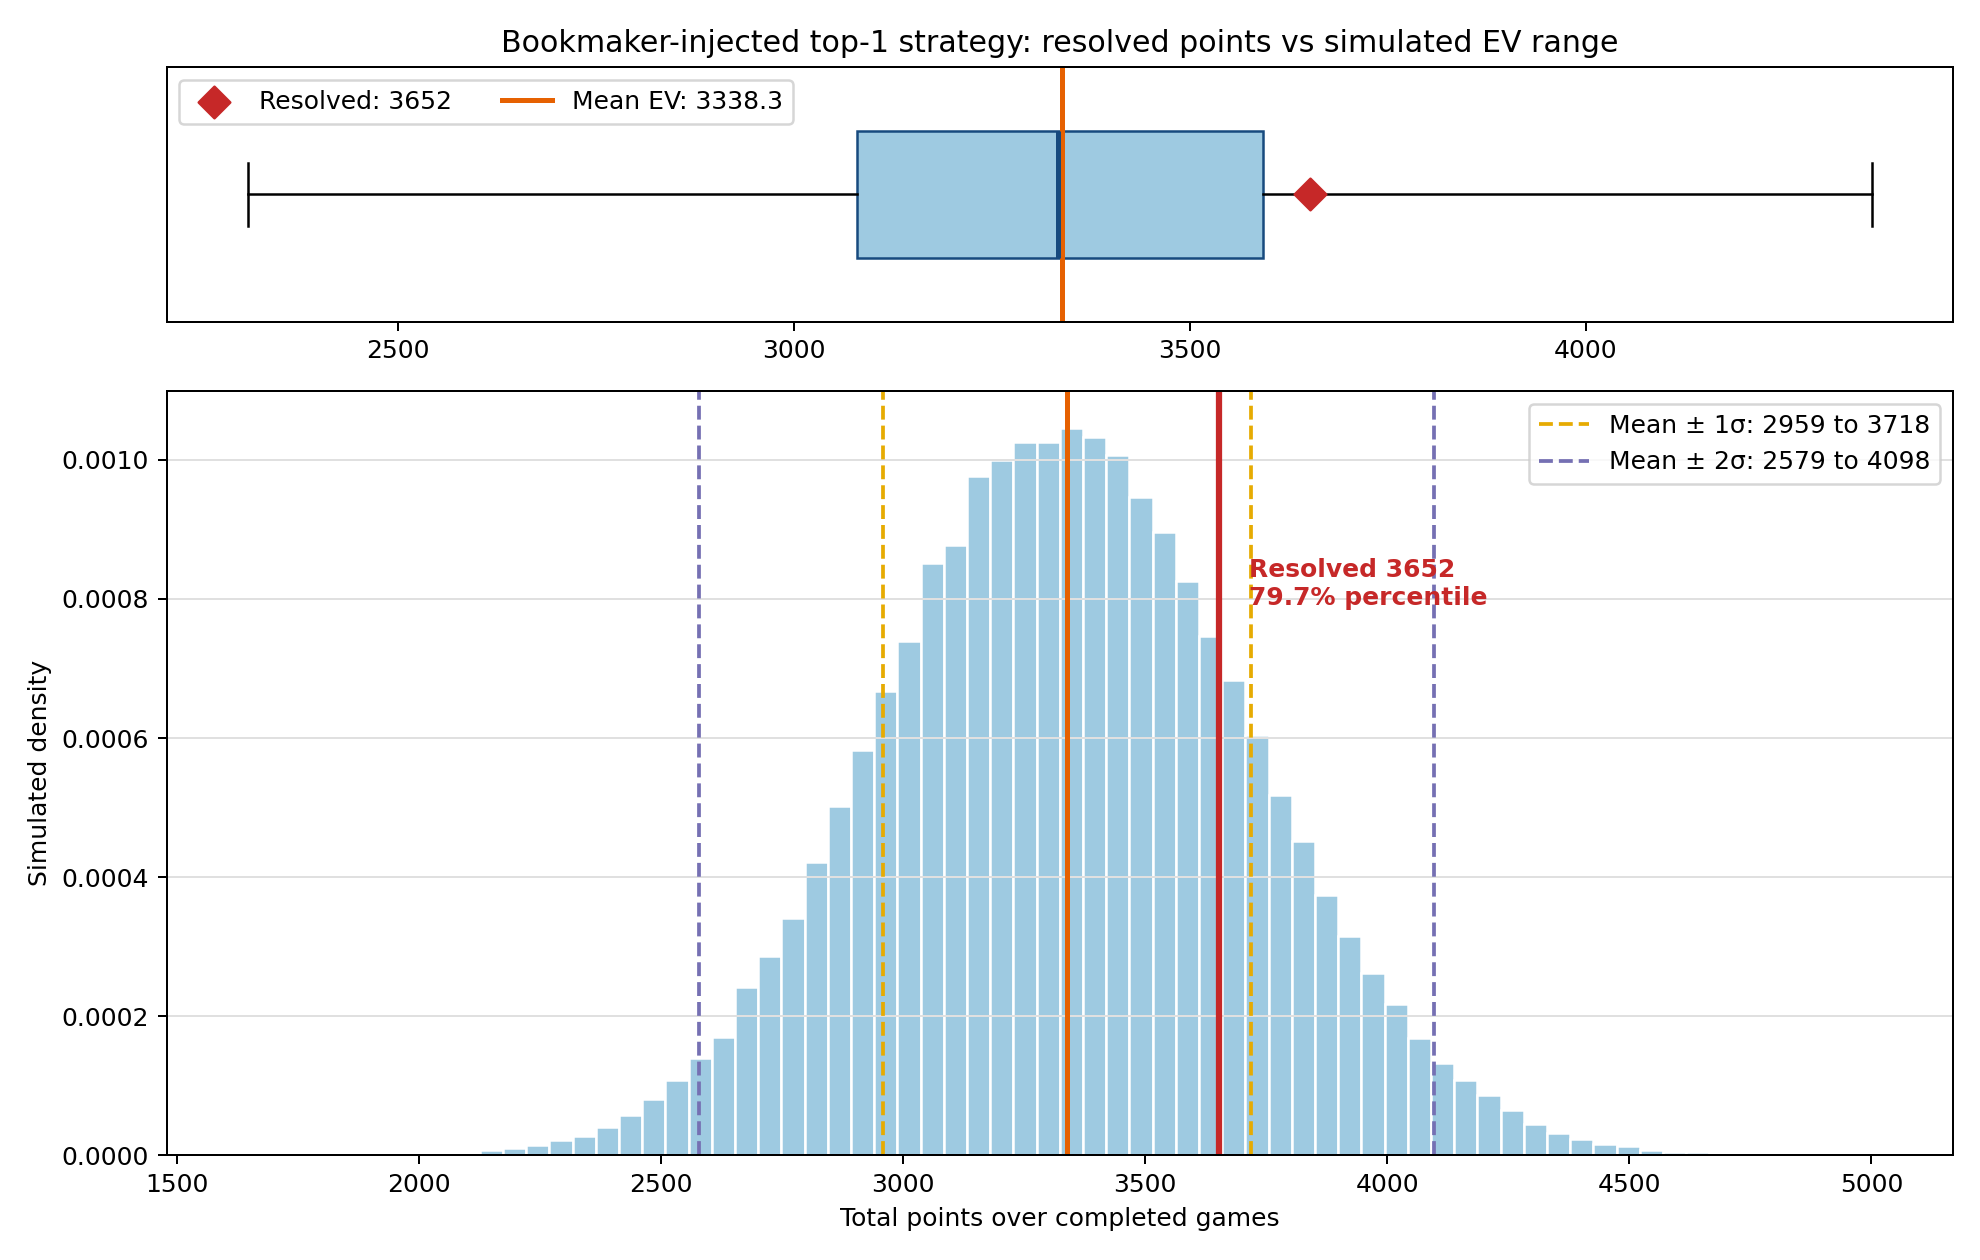
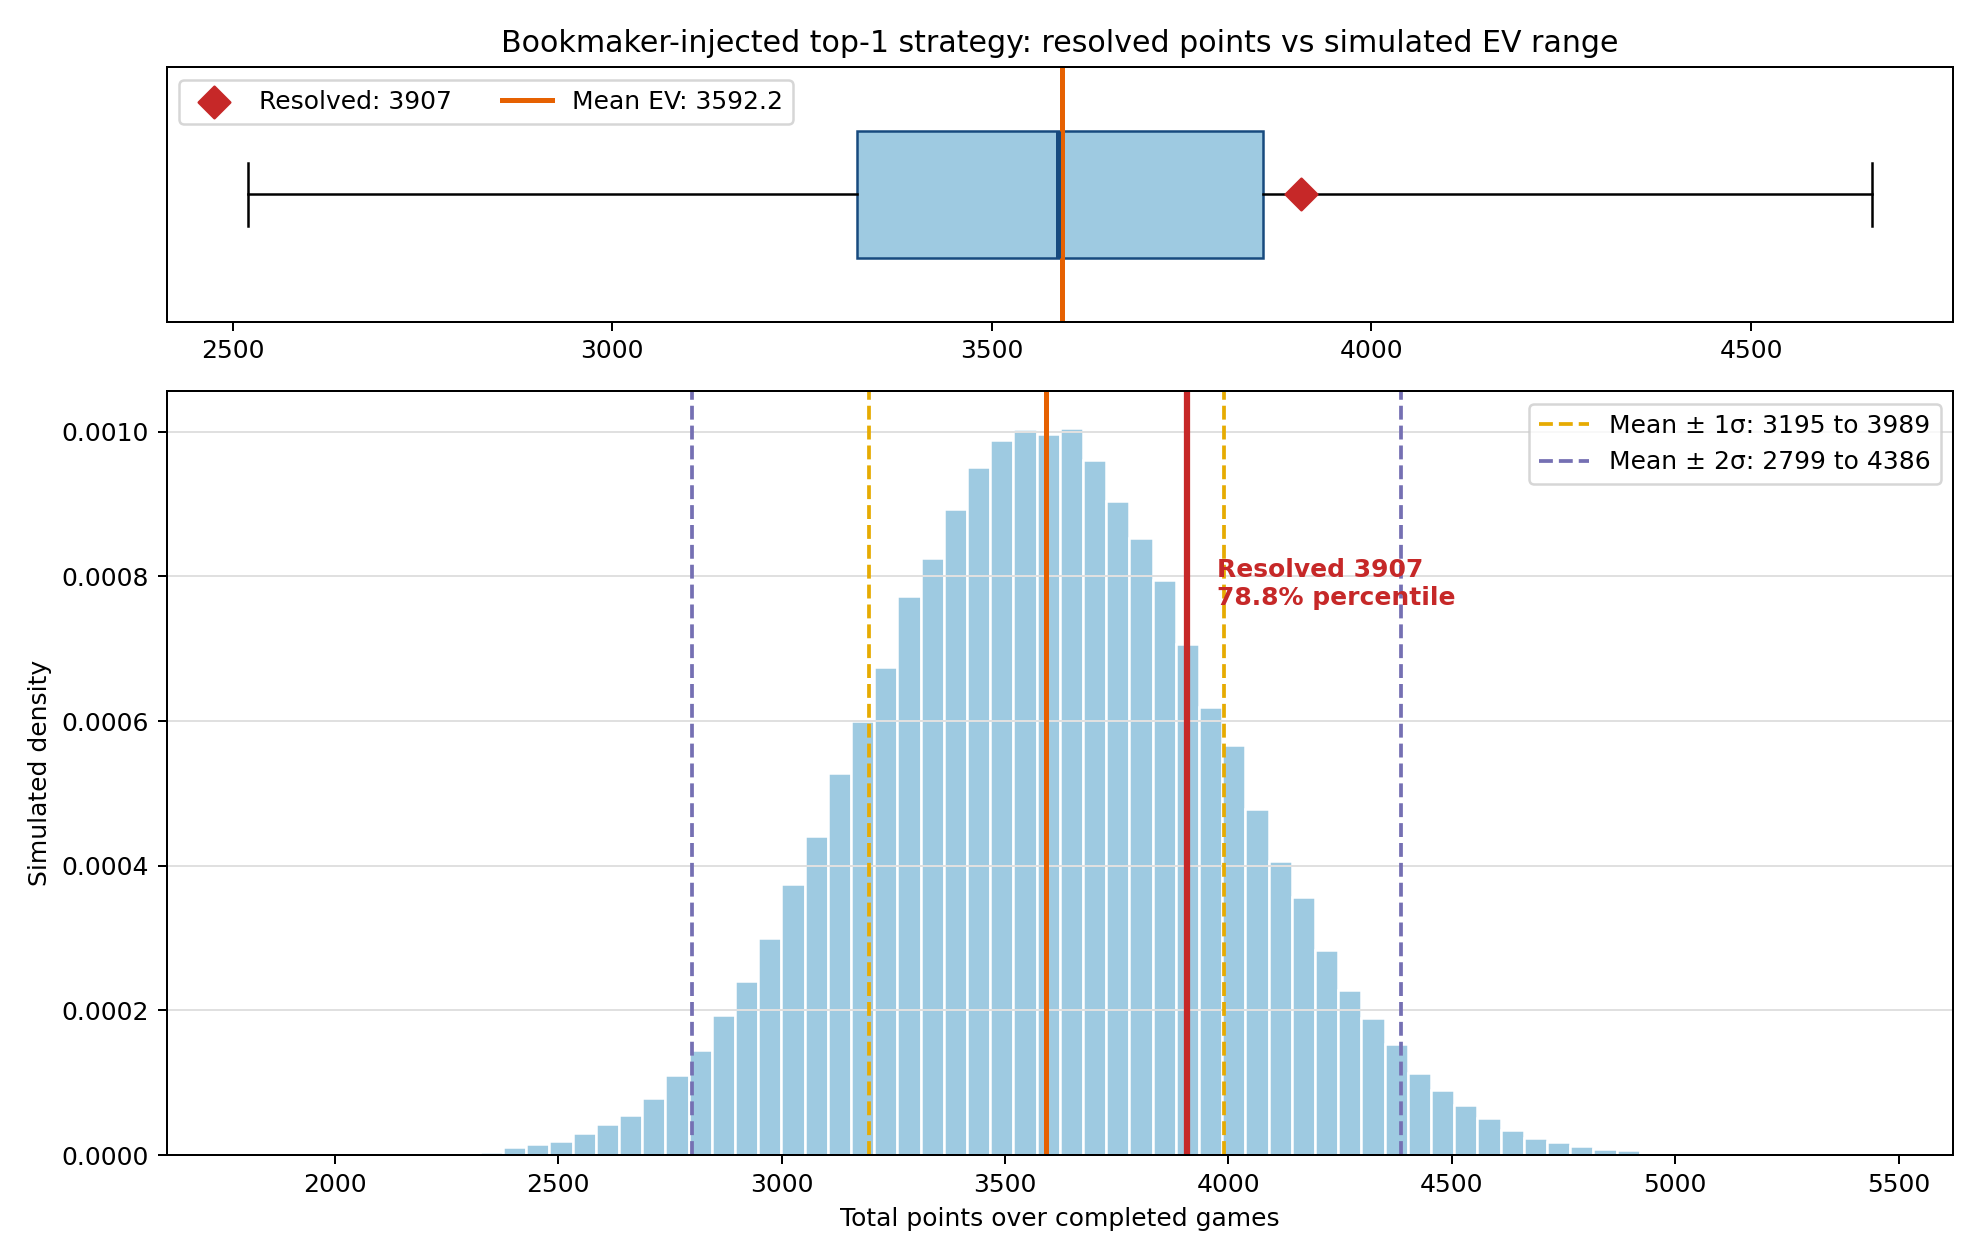
update latest

diff --git a/README.md b/README.md
@@ -74,11 +74,11 @@ Use this when you want a fully automated pipeline from bookmaker APIs. The
 
 ## Bookmaker-Injected Top-1 Bets
 
-Latest logged exact-score screenshot: **USA vs Bosnia**, Round of 32.
+Latest logged exact-score screenshot: **Colombia vs Ghana**, Round of 32.
 
 | Match | Top-1 bet | Total EV |
 |---|---|---:|
-| USA vs Bosnia | USA 1-0 | **46.02** |
+| Colombia vs Ghana | Colombia 1-0 | **52.54** |
 
 The transfer adjustment mainly changes rarity around draw-adjacent scores,
 such as `1-0`.
@@ -87,12 +87,12 @@ such as `1-0`.
 
 Latest full run:
 
-- Completed bookmaker-injected top-1 picks: **82**
-- Bookmaker top-1 resolved points: **3652.00**
-- Bookmaker logged EV: **3338.77**
-- Random-player resolved expected points: **3070.18**
-- Realized edge vs random-player baseline: **+581.82**
-- Bookmaker top-1 percentile vs sampled random players: **95.46%**
+- Completed bookmaker-injected top-1 picks: **88**
+- Bookmaker top-1 resolved points: **3907.00**
+- Bookmaker logged EV: **3592.27**
+- Random-player resolved expected points: **3320.99**
+- Realized edge vs random-player baseline: **+586.01**
+- Bookmaker top-1 percentile vs sampled random players: **95.12%**
 
 ![Latest bookmaker-injected top-1 vs random-player simulation](data/analysis/strategy_simulations/bookmaker_injected/top1_vs_random_player_distribution.png)
 
@@ -187,7 +187,13 @@ Legend: `❌` wrong result, `✅` correct result, `🎯` exact score.
 | ✅ | England vs DR Congo | 1-0 | 2-1 | 39 | 0 | **39** |
 | ✅ | Belgium vs Senegal | 1-0 | 3-2 | 80 | 0 | **80** |
 | ✅ | USA vs Bosnia | 1-0 | 2-0 | 52 | 0 | **52** |
-|  | **Total** |  |  | **3282** | **370** | **3652** |
+| ✅ | Spain vs Austria | 1-0 | 3-0 | 41 | 0 | **41** |
+| ✅ | Portugal vs Croatia | 1-0 | 2-1 | 73 | 0 | **73** |
+| ❌ | Switzerland vs Algeria | 0-1 | 2-0 | 0 | 0 | **0** |
+| ❌ | Australia vs Egypt | 0-1 | 1-1 | 0 | 0 | **0** |
+| ✅ | Argentina vs Cape Verde | 2-0 | 3-2 | 25 | 0 | **25** |
+| 🎯 | Colombia vs Ghana | 1-0 | 1-0 | 66 | 50 | **116** |
+|  | **Total** |  |  | **3487** | **420** | **3907** |
 
 ## Quick Start
 
